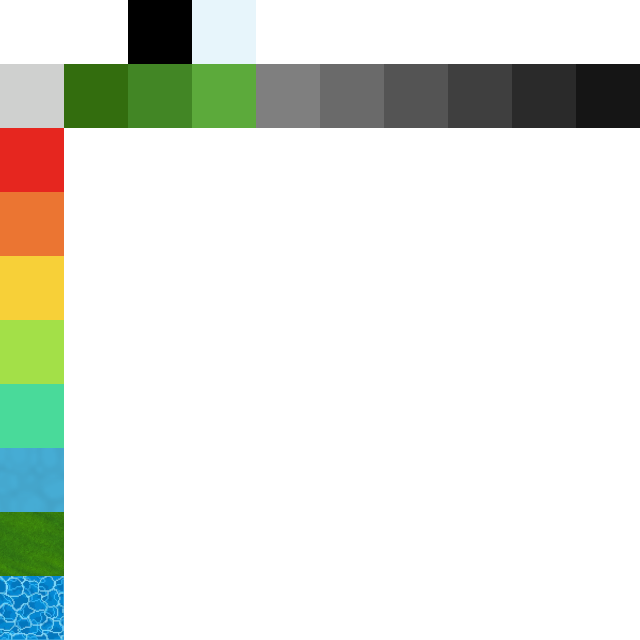
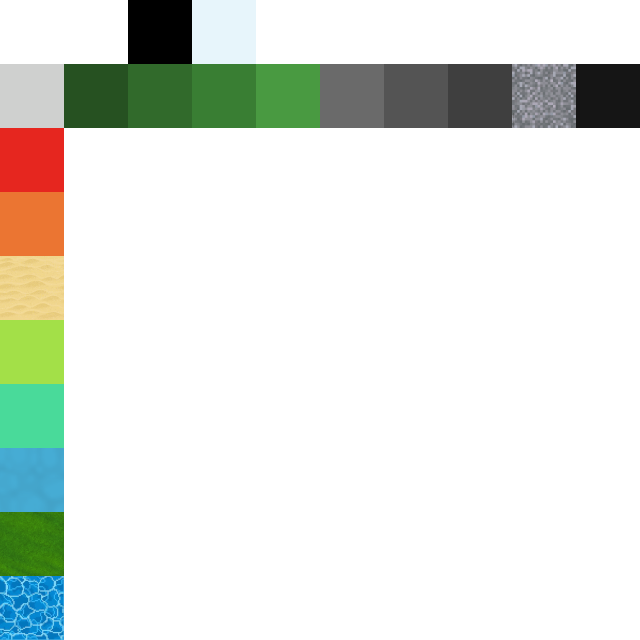
2

Changed region(s): [[0.0938, 0.0938, 0.5, 0.2188], [0.7812, 0.0938, 0.9062, 0.2188], [0.0, 0.375, 0.125, 0.5]]

diff --git a/core/src/com/bmhs/gametitle/game/assets/worlds/WorldGenerator.java b/core/src/com/bmhs/gametitle/game/assets/worlds/WorldGenerator.java
@@ -36,18 +36,23 @@ public class WorldGenerator {
                 worldIntMap[r][c] = 21;
             }
         }
-        generateIslands(3);
+
+        generateIslands(5);
         generateIslands(2);
+        generateIslands(4);
+        generateIslands(1);
         generateIslands(2);
 
     }
 
 
     public void generateIslands(int num) {
-        int x = MathUtils.random(15, worldIntMap.length - 15);
-        int y = MathUtils.random(15, worldIntMap[0].length - 15);
-        for(int i = 0; i < num; i++) {
-            generateIsland(x + MathUtils.random(-10,10),y + MathUtils.random(-10,10));
+        if (num > 1) {
+            int x = MathUtils.random(0, worldIntMap.length);
+            int y = MathUtils.random(0, worldIntMap[0].length);
+            for (int i = 0; i < num; i++) {
+                generateIsland(x + MathUtils.random(-12,12), y + MathUtils.random(-12,12));
+            }
         }
     }
     public void generateIsland(int x, int y) {
@@ -58,33 +63,52 @@ public class WorldGenerator {
                 for (int c = 0; c < worldIntMap[r].length; c++) {
                     Vector2 tempVector = new Vector2(c, r);
                     int radius = 1;
-                    if(rad == 6) {
-                        radius = MathUtils.random(5,6);
-                    }
-                    else {
+                    if (rad == 6) {
+                        radius = MathUtils.random(5, 6);
+                    } else {
                         radius = MathUtils.random(1, rad);
                     }
-                    if (tempVector.dst(mapseed) < radius*2) {
-                        if (rad == 6) {
-                            worldIntMap[r][c] = 20;
-                        }
-                        if (rad == 5) {
-                            worldIntMap[r][c] = 5;
-                        }
-                        if (rad == 4) {
-                            worldIntMap[r][c] = 6;
-                        }
-                        if (rad == 3) {
-                            worldIntMap[r][c] = 7;
-                        }
-                        if (rad == 2) {
-                            worldIntMap[r][c] = 8;
-                        }
-                        if (rad == 1) {
-                            worldIntMap[r][c] = 9;
-                        }
+                    if (r >= 0 && c >= 0 && r <= worldIntMap.length - 1 && c < worldIntMap[r].length - 1) {
+                        if (tempVector.dst(mapseed) < radius * 2) {
+                            if (rad == 6 && worldIntMap[r][c] == 21) {
+                                worldIntMap[r][c] = 16;
+
+                            }
+                            if (rad == 5 && worldIntMap[r][c] != 16 && worldIntMap[r][c] == 8) {
+                                worldIntMap[r][c] = 8;
+                            }
+                            if (rad == 4) {
+                                worldIntMap[r][c] = 8;
+                            }
+                            if (rad == 3) {
+                                worldIntMap[r][c] = 7;
+                            }
+                            if (rad == 2) {
+                                worldIntMap[r][c] = 6;
+                            }
+                            if (rad == 1) {
+                                worldIntMap[r][c] = 5;
+                                worldIntMap[(int) mapseed.y][(int) mapseed.x] = 5;
+                                int n = MathUtils.random(1, 4);
+                                if (n == 1) {
+                                    worldIntMap[((int) mapseed.y) + 1][((int) mapseed.x)] = 5;
+                                    worldIntMap[((int) mapseed.y) + 2][((int) mapseed.x) - 1] = 5;
+                                }
+                                if (n == 2) {
+                                    worldIntMap[((int) mapseed.y) - 2][((int) mapseed.x)] = 5;
+                                    worldIntMap[((int) mapseed.y) - 1][((int) mapseed.x) + 2] = 5;
+                                }
+                                if (n == 3) {
+                                    worldIntMap[((int) mapseed.y) + 3][((int) mapseed.x)] = 5;
+                                } else {
+                                    worldIntMap[((int) mapseed.y)][((int) mapseed.x) + 3] = 5;
+                                    worldIntMap[((int) mapseed.y)][((int) mapseed.x) - 3] = 5;
+                                    worldIntMap[((int) mapseed.y) + 2][((int) mapseed.x)] = 5;
+                                }
+                            }
 
 
+                        }
                     }
                 }
             }

diff --git a/core/src/com/bmhs/gametitle/gfx/assets/screens/WorldGenTestScreen.java b/core/src/com/bmhs/gametitle/gfx/assets/screens/WorldGenTestScreen.java
@@ -50,7 +50,7 @@ public class WorldGenTestScreen implements Screen {
         viewport.setScreenBounds(0, 0, Gdx.graphics.getWidth(), Gdx.graphics.getHeight());
 
         // Change number of rows and columns to change the size of the world
-        world = new World(100, 175);
+        world = new World(100, 300);
 
         camera.update();
         player = new PlayerCharacter(TileHandler.getTileHandler().getWorldTileArray().get(16), 100, 200);
